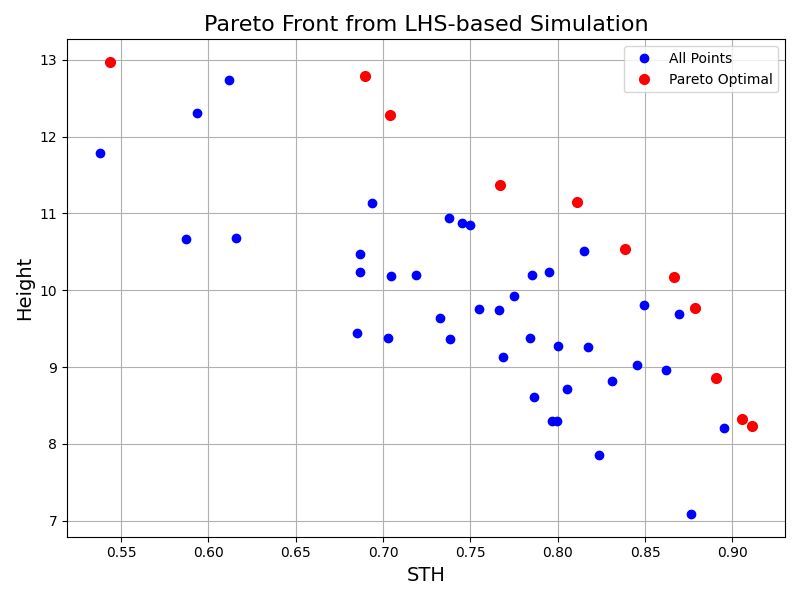
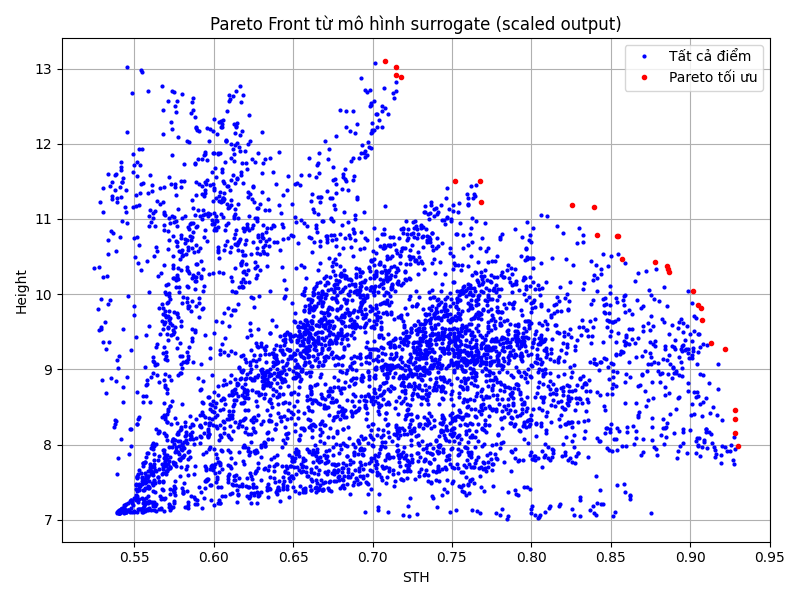
Update project with surrogate Pareto optimization and README

diff --git a/nsga2_krg.py b/nsga2_krg.py
@@ -1,0 +1,104 @@
+import pandas as pd
+import numpy as np
+from smt.surrogate_models import KRG
+from smt.sampling_methods import LHS
+from sklearn.preprocessing import MinMaxScaler
+import matplotlib.pyplot as plt
+
+from pymoo.algorithms.moo.nsga2 import NSGA2
+from pymoo.operators.sampling.rnd import FloatRandomSampling
+from pymoo.operators.crossover.sbx import SBX
+from pymoo.operators.mutation.pm import PM
+from pymoo.termination import get_termination
+from pymoo.core.problem import Problem
+from pymoo.optimize import minimize
+
+# Đọc dữ liệu
+file_path = "lhs_samples_saved.xlsx"
+df = pd.read_excel(file_path)
+X = df[['X1', 'X2', 'X3']].values
+Y = df[['STH', 'Height']].values
+
+# Chuẩn hóa output
+scaler_sth = MinMaxScaler()
+scaler_height = MinMaxScaler()
+
+Y_sth_scaled = scaler_sth.fit_transform(Y[:, 0].reshape(-1, 1)).flatten()
+Y_height_scaled = scaler_height.fit_transform(Y[:, 1].reshape(-1, 1)).flatten()
+
+# Huấn luyện surrogate model (KRG)
+model_sth = KRG(print_global=False)
+model_sth.set_training_values(X, Y_sth_scaled)
+model_sth.train()
+
+model_height = KRG(print_global=False)
+model_height.set_training_values(X, Y_height_scaled)
+model_height.train()
+
+# Định nghĩa bài toán tối ưu hóa với pymoo
+class SurrogateProblem(Problem):
+    def __init__(self):
+        super().__init__(n_var=3, n_obj=2, n_constr=0, xl=np.array([10, 0.3, 40]), xu=np.array([15, 0.9, 60]))
+
+    def _evaluate(self, X, out, *args, **kwargs):
+        sth_pred_scaled = model_sth.predict_values(X).flatten()
+        height_pred_scaled = model_height.predict_values(X).flatten()
+
+        # Trả về giá trị thật
+        sth_pred = scaler_sth.inverse_transform(sth_pred_scaled.reshape(-1, 1)).flatten()
+        height_pred = scaler_height.inverse_transform(height_pred_scaled.reshape(-1, 1)).flatten()
+
+        # Tối đa hoá cả hai mục tiêu => pymoo mặc định là minimize => negate
+        out["F"] = -np.column_stack([sth_pred, height_pred])
+
+# Khởi tạo thuật toán NSGA-II
+algorithm = NSGA2(
+    pop_size=200,
+    sampling=FloatRandomSampling(),
+    crossover=SBX(prob=0.9, eta=15),
+    mutation=PM(eta=20),
+    eliminate_duplicates=True,
+)
+
+termination = get_termination("n_gen", 200)
+
+# Tối ưu
+res = minimize(
+    SurrogateProblem(),
+    algorithm,
+    termination,
+    seed=42,
+    save_history=True,
+    verbose=True,
+)
+
+# Giá trị thật của Pareto Front
+F_actual = -res.F
+
+# Vẽ Pareto front
+plt.figure(figsize=(8, 6))
+plt.scatter(F_actual[:, 0], F_actual[:, 1], c='red', label='Pareto Optimal')
+plt.xlabel("STH (mm)")
+plt.ylabel("Height (mm)")
+plt.title("Pareto Front from NSGA-II with Kriging Surrogate Model (Maximization)")
+plt.legend()
+plt.grid(True)
+plt.tight_layout()
+plt.show()
+
+# Lấy các điểm input tối ưu
+X_optimal = res.X
+
+# Dự đoán lại output thực
+STH_scaled = model_sth.predict_values(X_optimal).flatten()
+Height_scaled = model_height.predict_values(X_optimal).flatten()
+
+STH_optimal = scaler_sth.inverse_transform(STH_scaled.reshape(-1, 1)).flatten()
+Height_optimal = scaler_height.inverse_transform(Height_scaled.reshape(-1, 1)).flatten()
+
+# Xuất ra Excel
+df_optimal = pd.DataFrame(X_optimal, columns=["X1", "X2", "X3"])
+df_optimal["STH (mm)"] = STH_optimal
+df_optimal["Height (mm)"] = Height_optimal
+df_optimal.to_excel("pareto_optimal_nsga2_krg.xlsx", index=False)
+print("✅ Pareto optimal results have been saved to 'pareto_optimal_nsga2_krg.xlsx'")

diff --git a/README.md b/README.md
@@ -5,9 +5,9 @@ This repository contains Python scripts for generating Latin Hypercube Sampling 
 ## Features
 
 - 🔁 **Latin Hypercube Sampling**: Generates 50 LHS samples for 3 variables `X1`, `X2`, `X3` with specified bounds.
-- 🧠 **Surrogate Modeling (SMT)**: RBF models for predicting STH and Height based on simulation data.
-- 🔍 **Pareto Front Optimization**: Visualizes and exports non-dominated solutions (STH & Height) using `oapackage`.
-- 📈 **Visualization**: Includes 2D plots for each objective, 3D scatter of input space, and Pareto front.
+- 🧠 **Surrogate Modeling (SMT)**: KRG models for predicting STH and Height based on simulation data.
+- 🔍 **Pareto Front Optimization**: Visualizes and exports non-dominated solutions (STH & Height) using `pymoo` (NSGA-II).
+- 📈 **Visualization**: Includes 2D plots Pareto front, 3D scatter of input space.
 
 ## Dependencies
 
@@ -22,16 +22,15 @@ Ensure [Microsoft C++ Build Tools](https://visualstudio.microsoft.com/visual-cpp
 ## Files
 
 - `lhs_generator.py`: Generate and export LHS samples.
-- `test_pareto.py`: Load results from simulation, perform Pareto front analysis.
-- `surrogate_pareto.py`: Build RBF surrogate models from data and perform Pareto optimization on predicted outcomes.
+- `nsga2_krg.py`: Perform NSGA-II optimization using KRG surrogate model.
 - `lhs_samples_saved.xlsx`: 50 simulation samples.
-- `pareto_optimal_results.xlsx`: Optimized Pareto front results.
+- `pareto_optimal_nsga2_krg.xlsx`: Optimized Pareto front results.
 - `requirements.txt`: List of Python packages.
 
 ## Example Output
 
 - 📊 Pareto Front with simulation data  
-- 🤖 Surrogate model-based Pareto Front with 5000 points  
+- 🤖 Surrogate model-based Pareto Front with NSGA-II  
 - 📁 Exported CSV/Excel of optimal input variables
 
 ## Citations
@@ -41,3 +40,4 @@ Some techniques or code snippets were referenced from:
 - SMT Library: https://smt.readthedocs.io/en/latest/
 - OAPackage Pareto Example: https://oapackage.readthedocs.io/en/latest/examples/example_pareto.html
 - LHS Sampling (Scipy): https://docs.scipy.org/doc/scipy/reference/generated/scipy.stats.qmc.LatinHypercube.html
+- NSGA-II with pymoo: https://medium.com/analytics-vidhya/optimization-modelling-in-python-multiple-objectives-760b9f1f26ee
